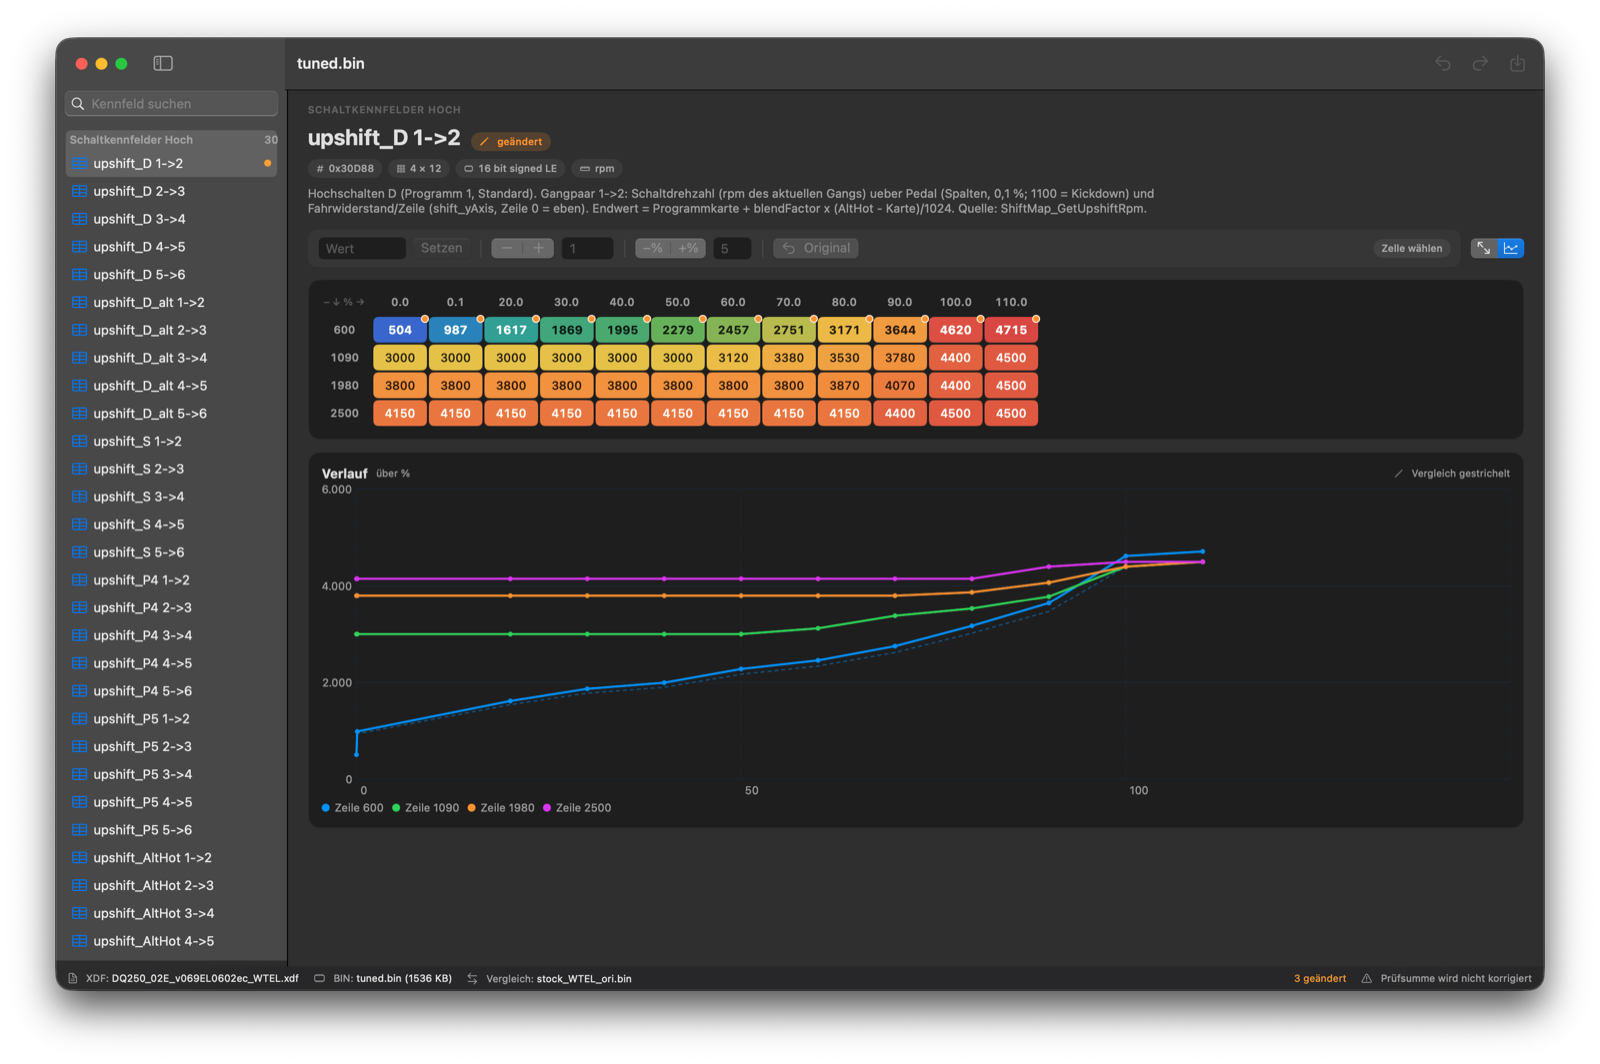
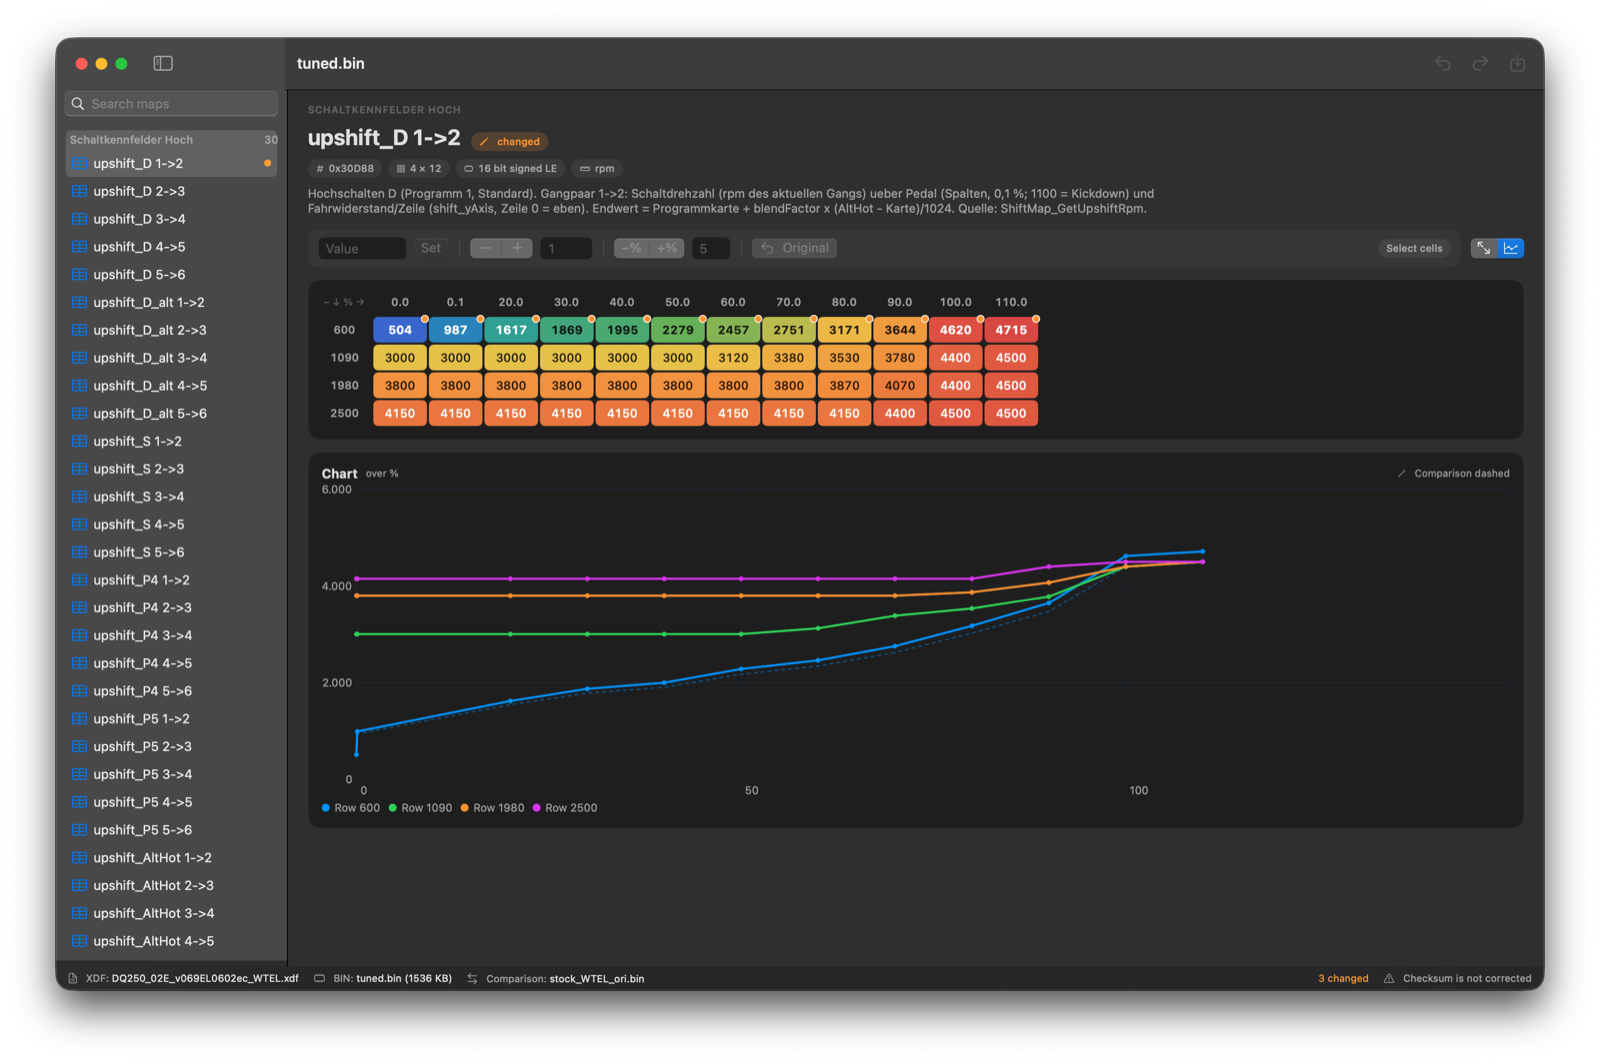
README in English, screenshots with English UI

diff --git a/README.md b/README.md
@@ -5,8 +5,7 @@
 <h1 align="center">MacTuner</h1>
 
 <p align="center">
-  Nativer XDF-Editor für macOS: TunerPro-Definitionen öffnen, Kennfelder und Werte in der Bin bearbeiten.<br>
-  <sub>Native macOS editor for TunerPro XDF definitions and ECU/TCU binaries — UI in 25 languages.</sub>
+  A native macOS editor for TunerPro XDF definitions: open the definition, then edit maps and values in the binary.
 </p>
 
 <p align="center">
@@ -14,107 +13,110 @@
   <img src="https://img.shields.io/badge/macOS-14%2B-blue" alt="macOS 14+">
   <img src="https://img.shields.io/badge/Apple%20Silicon%20%2B%20Intel-universal-lightgrey" alt="Universal">
   <img src="https://img.shields.io/badge/Swift-SwiftUI-orange" alt="SwiftUI">
-  <img src="https://img.shields.io/badge/Sprachen-25-purple" alt="25 Sprachen">
-  <img src="https://img.shields.io/badge/Lizenz-MIT-green" alt="MIT">
+  <img src="https://img.shields.io/badge/languages-25-purple" alt="25 languages">
+  <img src="https://img.shields.io/badge/license-MIT-green" alt="MIT">
 </p>
 
-![Kennfeld mit Heatmap, geänderten Zellen und Verlauf](docs/table.png)
+![Map with heatmap, changed cells and chart](docs/table.png)
 
-TunerPro gibt es nur für Windows. MacTuner ist eine native SwiftUI-App ohne Wine, VM oder Abhängigkeiten.
-Sie liest dieselben XDF-Dateien und schreibt eine Bin, in der nur die Bytes der bearbeiteten Werte geändert sind.
+TunerPro only runs on Windows. MacTuner is a native SwiftUI app that runs without Wine, a VM or any dependencies.
+It reads the same XDF files. When it saves the binary, only the bytes of the values you edited change.
 
-## Funktionen
+## Features
 
-- **Kennfelder als Heatmap**: Achsen werden aus der Bin gelesen oder als Labels angezeigt. Lange 1×N-Tabellen werden umgebrochen, 2D-Kennfelder lassen sich transponieren.
-- **Verlauf als Diagramm**: Jede Zeile wird als Linie gezeichnet, der Vergleichsstand gestrichelt darunter.
-- **Vergleich mit einer zweiten Bin**, etwa der Original-Bin. Ohne Vergleichsdatei gilt der Stand beim Öffnen. Geänderte Zellen bekommen einen orangen Punkt, und in der Liste lässt sich „Nur geänderte“ filtern.
-- **Bearbeiten wie in einer Tabellenkalkulation**:
-  - Bereiche auswählen, Zahl tippen und mit ↩ setzen.
-  - **+ / −** ändert um die Schrittweite, außerdem prozentual oder zurück aufs Original.
-  - Undo und Redo.
-- **Konstanten** mit großer Wertanzeige, Rohwert, Schrittweite und Wertebereich.
-- **Suche** über Titel und Beschreibungen, Kategorien wie in der XDF.
-- Merkt sich XDF, Bin und Auswahl. Dateien lassen sich auch einfach ins Fenster ziehen.
+- **Maps as heatmaps.** Axes are read from the binary or shown as labels. Long 1×N tables wrap into rows, and 2D maps can be transposed.
+- **Charts.** Every row is drawn as a line, with the comparison drawn dashed underneath.
+- **Comparison with a second binary**, such as the stock file. Without one, the app compares against the state when the file was opened. Changed cells get an orange dot, and the list can be filtered to *Changed only*.
+- **Spreadsheet-style editing:**
+  - Select a range, type a number and press ↩ to set it.
+  - **+ / −** changes the selection by the step size. You can also change it by a percentage or reset it to the original.
+  - Undo and redo.
+- **Constants** with a large value display, raw value, step size and valid range.
+- **Search** across titles and descriptions. Categories come from the XDF.
+- Remembers the XDF, the binary and the selection between launches. Files can also be dropped onto the window.
 
-| Konstante | Lange Tabelle (1 × 152) |
+| Constant | Long table (1 × 152) |
 |---|---|
-| ![Konstante](docs/constant.png) | ![Lange Tabelle](docs/long-table.png) |
+| ![Constant](docs/constant.png) | ![Long table](docs/long-table.png) |
 
-## Sprachen
+## Languages
 
-Die Oberfläche gibt es auf Deutsch, Englisch, Französisch, Spanisch, Italienisch, Portugiesisch, Niederländisch, Schwedisch,
-Polnisch, Tschechisch, Slowenisch, Kroatisch, Serbisch, Rumänisch, Ungarisch, Bulgarisch, Griechisch, Türkisch, Albanisch,
-Ukrainisch, Russisch, Chinesisch (vereinfacht und traditionell), Japanisch und Koreanisch.
-Sie folgt der Systemsprache. Unter **Systemeinstellungen → Allgemein → Sprache & Region → Apps** lässt sie sich auch nur für MacTuner umstellen.
-Namen, Beschreibungen und Kategorien der Kennfelder stammen aus der XDF und bleiben in deren Sprache.
+The interface is available in English, German, French, Spanish, Italian, Portuguese, Dutch, Swedish, Polish, Czech,
+Slovenian, Croatian, Serbian, Romanian, Hungarian, Bulgarian, Greek, Turkish, Albanian, Ukrainian, Russian,
+Chinese (Simplified and Traditional), Japanese and Korean.
 
-Alle Texte stehen in [`Localization/translations.py`](Localization/translations.py). Nach einer Änderung erzeugt
-`python3 Localization/translations.py Localization` die `.strings`-Dateien neu und prüft, ob alle Schlüssel und Platzhalter vorhanden sind.
+MacTuner follows the system language and falls back to English. To use a different language for MacTuner only, go to
+**System Settings → General → Language & Region → Applications**. Map names, descriptions and categories come from
+the XDF and stay in the XDF's language.
+
+All UI strings live in [`Localization/translations.py`](Localization/translations.py). After editing it, run
+`python3 Localization/translations.py Localization`. This regenerates the `.strings` files and checks that every
+language has all keys and matching placeholders.
 
 ## Installation
 
-1. `MacTuner-x.y.z.zip` von den [Releases](../../releases/latest) laden und entpacken. Das Archiv enthält eine Universal-App für Apple Silicon und Intel.
-2. `MacTuner.app` nach `/Applications` ziehen.
-3. Die App ist nicht notarisiert. Beim ersten Start blockiert macOS sie deshalb. Gib sie unter **Systemeinstellungen → Datenschutz & Sicherheit → „Dennoch öffnen“** frei. Alternativ im Terminal:
+1. Download `MacTuner-x.y.z.zip` from [Releases](../../releases/latest) and unzip it. It contains a universal app for Apple Silicon and Intel.
+2. Move `MacTuner.app` to `/Applications`.
+3. The app is not notarized, so macOS blocks the first launch. Allow it under **System Settings → Privacy & Security → Open Anyway**, or run:
    ```sh
    xattr -dr com.apple.quarantine /Applications/MacTuner.app
    ```
 
-## Bedienung
+## Usage
 
-| Taste | Aktion |
+| Shortcut | Action |
 |---|---|
-| ⌘O / ⇧⌘O / ⌥⌘O | XDF / Bin / Vergleichs-Bin öffnen |
-| ⌘S / ⇧⌘S | Speichern / Speichern unter |
-| ⌘Z / ⇧⌘Z | Widerrufen / Wiederholen |
-| Klick, ⇧-Klick, ⌘-Klick | Zelle, Bereich, einzelne Zellen wählen |
-| Klick auf Achse / Ecke, ⌘A | ganze Zeile oder Spalte / alles wählen |
-| Pfeiltasten (mit ⇧) | Auswahl bewegen (erweitern) |
-| Zahl tippen + ↩ | Wert setzen |
-| + / − | um die Schrittweite ändern |
+| ⌘O / ⇧⌘O / ⌥⌘O | Open XDF / binary / comparison binary |
+| ⌘S / ⇧⌘S | Save / Save As |
+| ⌘Z / ⇧⌘Z | Undo / Redo |
+| Click, ⇧-click, ⌘-click | Select a cell, a range, individual cells |
+| Click an axis / the corner, ⌘A | Select a whole row or column / everything |
+| Arrow keys (with ⇧) | Move (extend) the selection |
+| Type a number + ↩ | Set the value |
+| + / − | Change by the step size |
 
 > [!WARNING]
-> **Die Prüfsumme wird nicht korrigiert.** Lass sie vor dem Flashen von deinem Flash-Tool korrigieren.
-> Falsche Werte können Motor oder Getriebe beschädigen. Die Nutzung erfolgt auf eigene Gefahr.
+> **MacTuner does not correct checksums.** Let your flashing tool fix the checksum before you flash.
+> Wrong values can damage the engine or transmission. Use at your own risk.
 
-## Unterstützter XDF-Umfang
+## Supported XDF features
 
-Unterstützt wird der Teil des Formats TunerPro XDF 1.60, den übliche Definitionen nutzen:
+MacTuner supports the parts of the TunerPro XDF 1.60 format that typical definitions use:
 
-- `XDFTABLE` mit X-, Y- und Z-Achse sowie `XDFCONSTANT`, Kategorien, Beschreibungen.
-- Datentypen: 8, 16 und 32 Bit, signed und unsigned, Little und Big Endian, Spalten-Major, Float.
-- Umrechnungsformeln über `X` mit `+ - * / ^` und Klammern. Für die Rückrechnung beim Bearbeiten wird die Formel invertiert, notfalls numerisch per Bisektion.
-- Ausgabe als Zahl oder Hex. Achsen kommen aus der Bin, aus Labels oder sind einfache Indizes.
+- `XDFTABLE` with X, Y and Z axes, `XDFCONSTANT`, categories and descriptions.
+- Data types: 8, 16 and 32 bit, signed and unsigned, little and big endian, column-major, float.
+- Conversion formulas in `X` with `+ - * / ^` and parentheses. When you edit a value, MacTuner inverts the formula, falling back to a numeric bisection if needed.
+- Output as a number or as hex. Axes come from the binary or from labels, or default to plain indices.
 
-Nicht unterstützt sind Flags/Bitmasken (`XDFFLAG`), Patches, Checksummen-Plugins und ADX/Datalogging.
+Flags/bitmasks (`XDFFLAG`), patches, checksum plugins and ADX/datalogging are not supported.
 
-## Bauen
+## Building
 
-Zum Bauen genügen die Command Line Tools, Xcode ist nicht nötig.
+The Command Line Tools are enough; Xcode is not required.
 
 ```sh
 ./build_app.sh            # → build/MacTuner.app (universal)
 ```
 
-Das macOS-27-SDK der Command Line Tools enthält das SwiftUI-Makro-Plugin nicht. Ohne Xcode nimmt das Skript deshalb automatisch das 26er-SDK.
+The macOS 27 SDK that ships with the Command Line Tools lacks the SwiftUI macro plugin. Without Xcode, the script therefore uses the macOS 26 SDK automatically.
 
-### Selbsttests
+### Self-tests
 
-Sind eine XDF und eine passende Bin vorhanden, laufen beim Bauen zwei Tests:
+If you have an XDF and a matching binary, the build also runs two tests:
 
 ```sh
 MACTUNER_XDF=def.xdf MACTUNER_BIN=stock.bin ./build_app.sh
 ```
 
 - `--check <xdf> <bin>`
-  - liest jeden Eintrag;
-  - vergleicht Konstanten mit den Angaben „Original: N (roh)“ in den Beschreibungen;
-  - kodiert jede Zelle neu und erwartet dabei exakt dieselben Bytes.
+  - reads every item;
+  - compares constants with the "Original: N (roh)" values in their descriptions;
+  - re-encodes every cell and expects exactly the same bytes.
 - `--edit-test <xdf> <bin> <out>`
-  - bearbeitet einige Werte über denselben Code wie die App;
-  - speichert die Datei;
-  - vergleicht sie Byte für Byte mit dem Original. Nur die beabsichtigten Bytes dürfen sich unterscheiden.
+  - edits a few values through the same code the app uses;
+  - saves the file;
+  - compares it byte by byte with the original. Only the intended bytes may differ.
 
-## Lizenz
+## License
 
-[MIT](LICENSE). Nicht mit TunerPro verbunden. Es werden keine XDF- oder Bin-Dateien mitgeliefert.
+[MIT](LICENSE). Not affiliated with TunerPro. No XDF or binary files are included.
